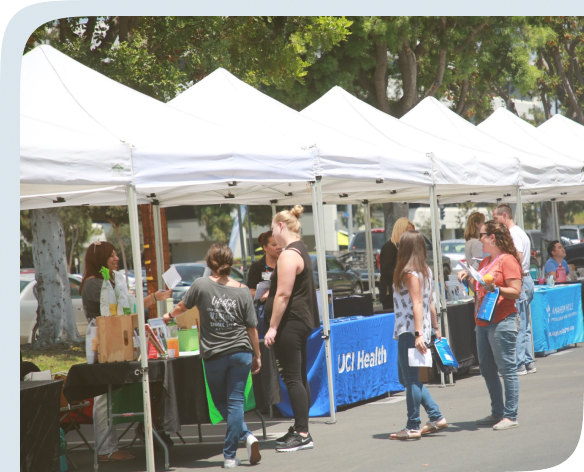
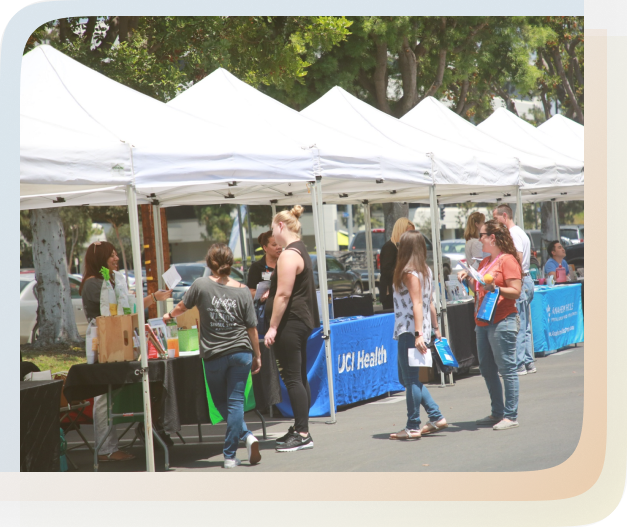
all done

diff --git a/index.html b/index.html
@@ -449,7 +449,7 @@
                               class="select-input"
                               aria-label="Default select example"
                             >
-                              <option selected>Number of Employees *</option>
+                              <option selected>Number of Employees  <span class="text-denger">*</span></option>
                               <option value="1">One</option>
                               <option value="2">Two</option>
                               <option value="3">Three</option>
@@ -502,7 +502,7 @@
 
                       <div class="form-title">
                         <h3>
-                          What wellness service(s) are you interested in ?*
+                          What wellness service(s) are you interested in ? <span class="text-denger">*</span>
                         </h3>
                       </div>
                       <div class="row pt-3">

diff --git a/assets/css/responsive.css b/assets/css/responsive.css
@@ -36,6 +36,11 @@
     .slider-img::before{
         display: none;
     }
+    .slider-navigation {
+        justify-content: center;
+        align-items: center;
+        width: 100%;
+    }
 }
 
 @media screen and (max-width:768px) {
@@ -78,7 +83,17 @@
     }
 }
 @media screen and (max-width:650px) {
-    
+    .content-left {
+        background: rgb(234 247 255 / 75%);
+        backdrop-filter: blur(5px);
+    }
+    .content-left::after,
+    .content-left::before{
+        display: none;
+    }
+    .hero-content-inner{
+        background: none;
+    }
     
     .toggle-menu {
         display: block;
@@ -119,6 +134,15 @@
 }
 
 @media screen and (max-width:500px) {
+    .hero-section {
+        height: 730px;
+    }
+    .sl-content-inner h2 {
+        font-size: 25px;
+    }
+    br{
+        display: none;
+    }
     .footer-area {
         padding: 37px 10px;
     }

diff --git a/assets/css/style.css b/assets/css/style.css
@@ -55,7 +55,7 @@ a.nav-link::before {
 }.navigation-wrapper.scrolled .container .navigation {
   border-radius: 0 0px 14px 14px;
 }
-.slider-img::after {
+/* .slider-img::after {
   content: "";
   position: absolute;
   width: 100%;
@@ -67,7 +67,7 @@ a.nav-link::before {
   bottom: 0px;
   right: -20px;
   z-index: -1;
-}
+} */
 
 .nav-link:hover {
   color: var(--main-color);
@@ -312,7 +312,7 @@ ul.logo-list li img:hover {
   background: rgba(216, 191, 72, 0.1);
 }
 
-.slider-img::before {
+/* .slider-img::before {
   content: "";
   position: absolute;
   width: 100%;
@@ -327,7 +327,7 @@ ul.logo-list li img:hover {
   bottom: 0px;
   right: -20px;
   z-index: -1;
-}
+} */
 
 .slider-img {
   position: relative;
@@ -634,4 +634,7 @@ ul.location-ul li {
 }
 .logo_slider img:hover {
   filter: initial;
+}
+.text-denger{
+  color: #ff0000;
 }
